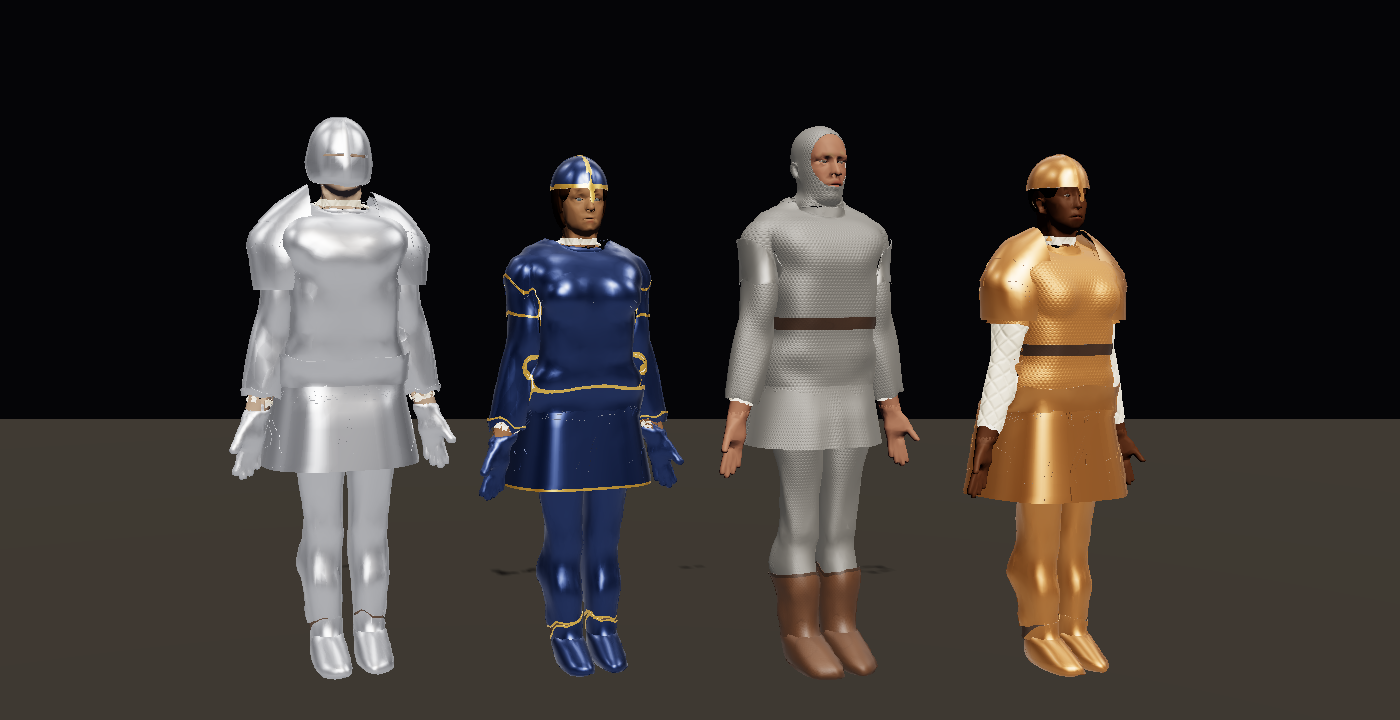
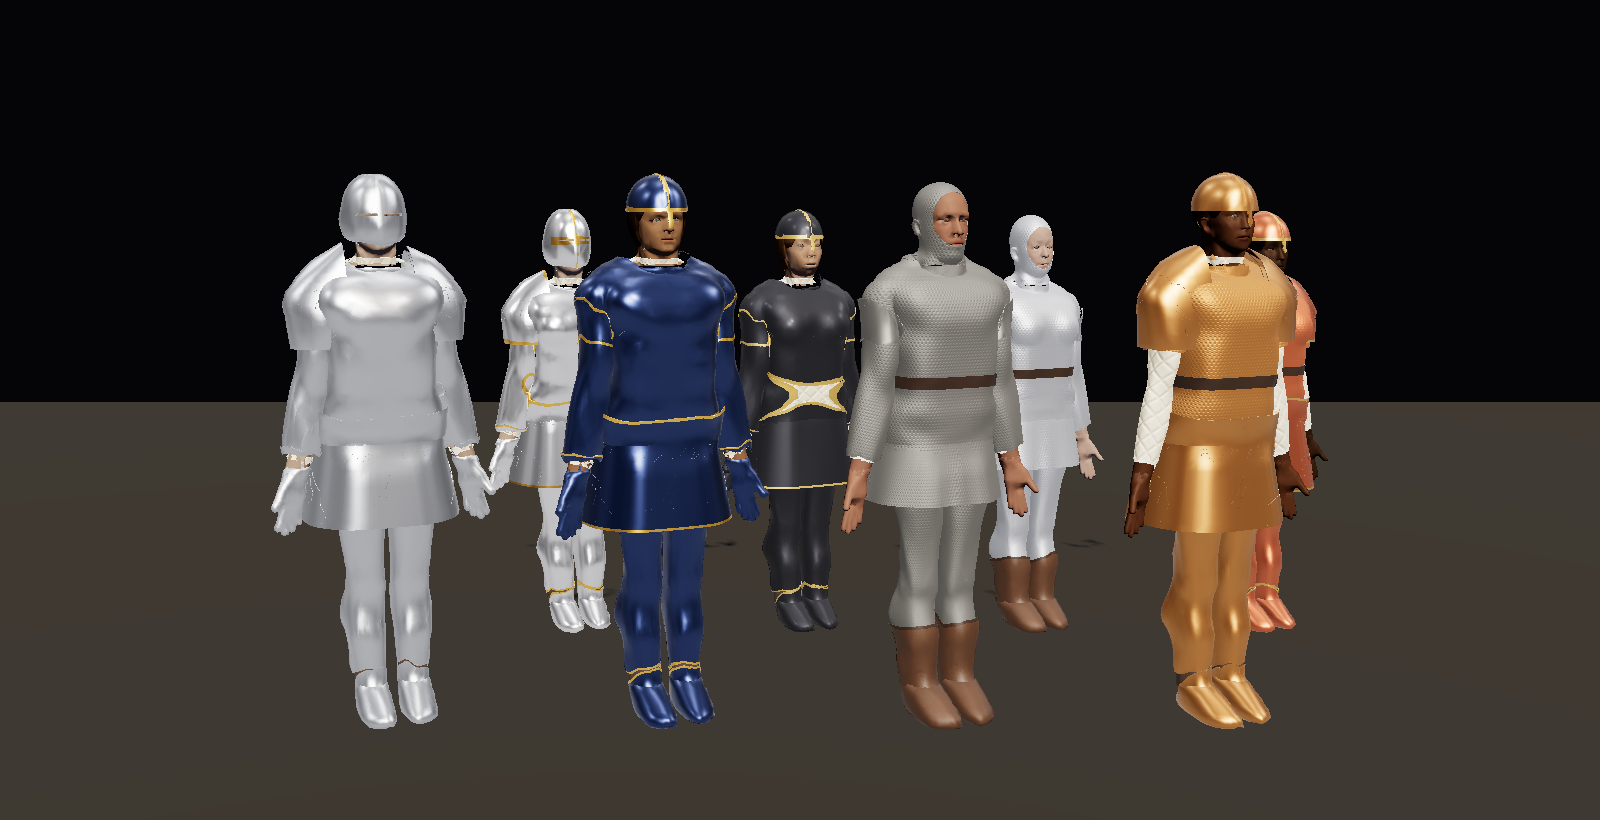
Vary monks, archers and men-at-arms, and show each kit on both sexes
Monks, archers and men-at-arms repeated the most. A monk now wears one
of five habits, a hood of his own order's color or another's, and a
cord or a belt; an archer a gambeson and a jerkin of one of five hides,
and a feathered cap when he has no hood; a man-at-arms mail of iron,
steel, blackened steel or bronze, and a half helmet over his coif by
chance. Over 400 people a calling, monks went from 83 looks to 239,
men-at-arms from 267 to 369 and archers from 308 to 382. Over all
fifteen callings, 79,661 of 102,000 people differ, and their 102,000
looks take 0.25 s to make.

examples/plate_and_mail.mojo now dresses eight people: each of its four
kits on a man in front and a woman behind, in eight metals.

Claude-Session: https://claude.ai/code/session_018jvzBNkDckP9aqnq7eLYpw

Changed region(s): [[0.0, 0.1528, 1.0, 0.9472]]

diff --git a/docs/wiki/Outfits-and-armor.md b/docs/wiki/Outfits-and-armor.md
@@ -103,7 +103,7 @@ Frills come by chance too. A courtly royal mostly wears a shirt with frilled cuf
 
 Each garment of a calling takes its dye by a pick of its own. So the dyes of a robe, its mantle and its sash vary apart. A test dresses 120 seeds of each of the seven callings as a man and as a woman. Of the 1,680 people, more than 1,500 differ in their garments, dyes, metals, hair or beard.
 
-Over all fifteen callings, 200 seeds and both sexes, 5,337 of 6,000 people differ. They differ in their garments, dyes, metals, designs, frills, patterns, hair, beard or cloak. The genome and the stature make each person differ further.
+Over all fifteen callings, 3,400 seeds and both sexes, 79,661 of 102,000 people differ. They differ in their garments, dyes, metals, designs, frills, patterns, hair, beard or cloak. A monk wears one of five habits, a cord or a belt. A man-at-arms wears mail of one of four metals, and a half helmet by chance. An archer wears a jerkin of one of five hides, and a hood or a feathered cap by chance. The genome and the stature make each person differ further.
 
 Some garments are parti-colored: four merchants' tunics in ten and three women's gowns in ten take a second dye on the left side. Three men-at-arms' surcoats in ten are quartered, and two in ten bear a cross or a saltire.
 
@@ -160,7 +160,8 @@ Of the 40, 30 stand within 15 m of the camera. Their hair moves, and 11 of the 1
 
 - The CPU renderer holds about 680 bytes for each triangle it draws. So the 40 people at 16,000 triangles take 1.9 GB to draw.
 - The garments, the cloaks and the hats do not scale with the skin's budget. At 4,000 triangles they draw more than half of each person's triangles.
-- For thousands of colors, dress a few bodies and paint each many ways. `redye(scene, assets, dressed, outfit)` paints a dressed outfit in new dyes, in about 4 ms against 51 ms to dress the test's coarse person. See [New dyes](#new-dyes).
+- A look is cheap to choose. The 102,000 looks above, each an outfit, a hairstyle and a beard, take 0.25 s to make: 2.4 µs a look.
+- For thousands of colors, dress a few bodies and paint each many ways. At 16,000 triangles, dressing a royal woman takes 0.32 s, and `redye(scene, assets, dressed, outfit)` paints her in new dyes in 3.8 ms. See [New dyes](#new-dyes).
 - For thousands of people, build each look once and bake it. A bake loads in 12 ms; see [Game humanoid](Game-humanoid#baking-and-speed). A loaded bake draws its hair and its cloak as they lay when baked.
 
 These changes made a crowd cheaper:
@@ -201,16 +202,16 @@ A flexible garment keeps the skin's weights and bends as the skin bends. Plate d
 
 A lamed garment is cut into bands along the anchor's own weight on the skin. The top lame rides the anchor wholly. Each lame below it shares more of its weight with the bones under it, in equal steps. Each lame reaches 0.3 of a band past its lower bound and stands 2.5 mm out over the lame below. So each lame shows its lower edge as a lip, and the fauld opens as the thigh lifts.
 
-`examples/plate_and_mail.mojo` dresses four people in plate and mail of four metals, and writes `out/plate_and_mail.png`.
+`examples/plate_and_mail.mojo` dresses eight people in four kits of plate and mail, and writes `out/plate_and_mail.png`. Each kit is on a man in front and a woman behind him, in other metals.
 
-| Person | Metal | Pieces |
-|---|---|---|
-| a man | bright steel | `great_helm`, the full helmet; `platebody`, `arm_harness`, `great_pauldrons`, `plate_skirt`, `plate_legs`, `gauntlets` and `sabatons` |
-| a woman | blued steel, trimmed with gold | `half_helm`, `platebody`, `arm_harness`, `pauldrons`, `plate_skirt`, `plate_legs`, `gauntlets` and `sabatons` |
-| a man | iron | `hauberk` and `coif` of mail, `mail_chausses`, and `pauldrons` of plate |
-| a woman | bronze | `half_helm`, `chain_shirt`, `great_pauldrons`, `plate_skirt`, `plate_legs` and `sabatons` |
+| Kit | Man | Woman | Pieces |
+|---|---|---|---|
+| full harness, full helmet | bright steel | silver, trimmed with gold | `great_helm`, `platebody`, `arm_harness`, `great_pauldrons`, `plate_skirt`, `plate_legs`, `gauntlets` and `sabatons` |
+| full harness, half helmet | blued steel, trimmed with gold | blackened steel, trimmed with brass | `half_helm`, `platebody`, `arm_harness`, `pauldrons`, `plate_skirt`, `plate_legs`, `gauntlets` and `sabatons` |
+| chainmail | iron | steel | `hauberk` and `coif` of mail, `mail_chausses`, and `pauldrons` of plate |
+| chain shirt over plate | bronze | copper, trimmed with brass | `half_helm`, `chain_shirt`, `great_pauldrons`, `plate_skirt`, `plate_legs` and `sabatons` |
 
-![Four people in steel, blued, iron and bronze plate and mail](out/plate_and_mail.png)
+![Eight people in four kits of plate and mail, men in front and women behind, of eight metals](out/plate_and_mail.png)
 
 ## Sockets and props
 
